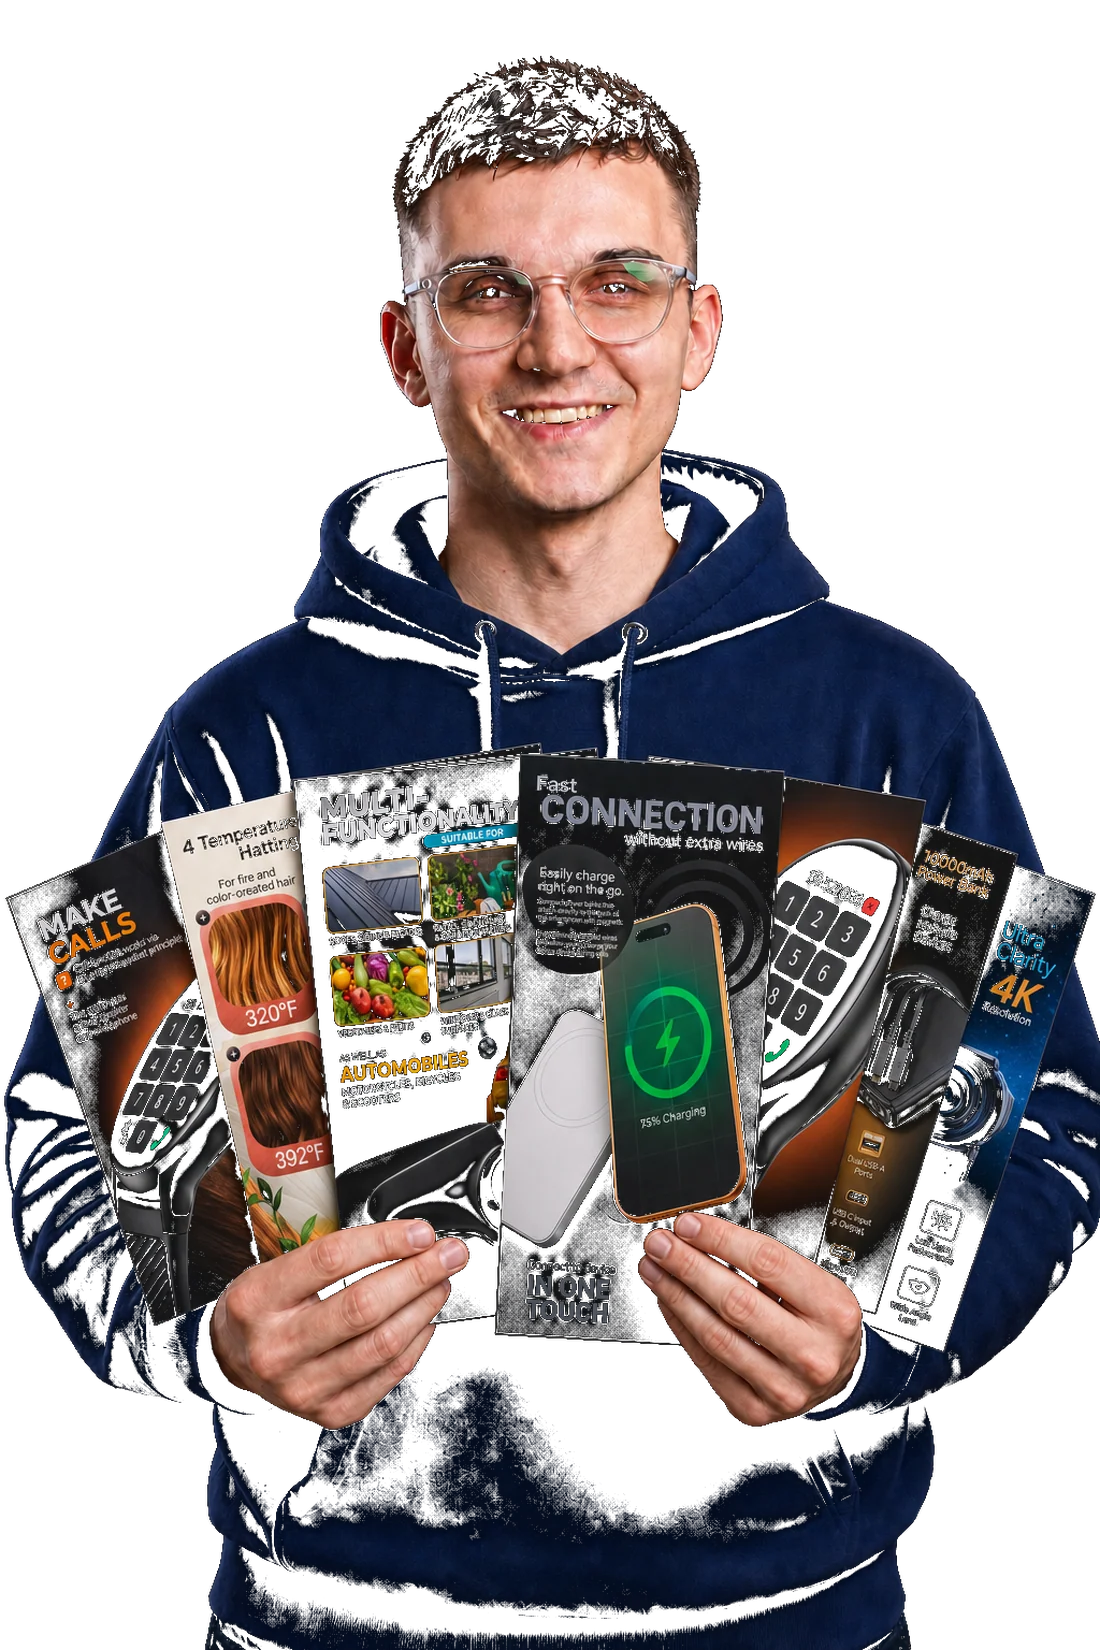
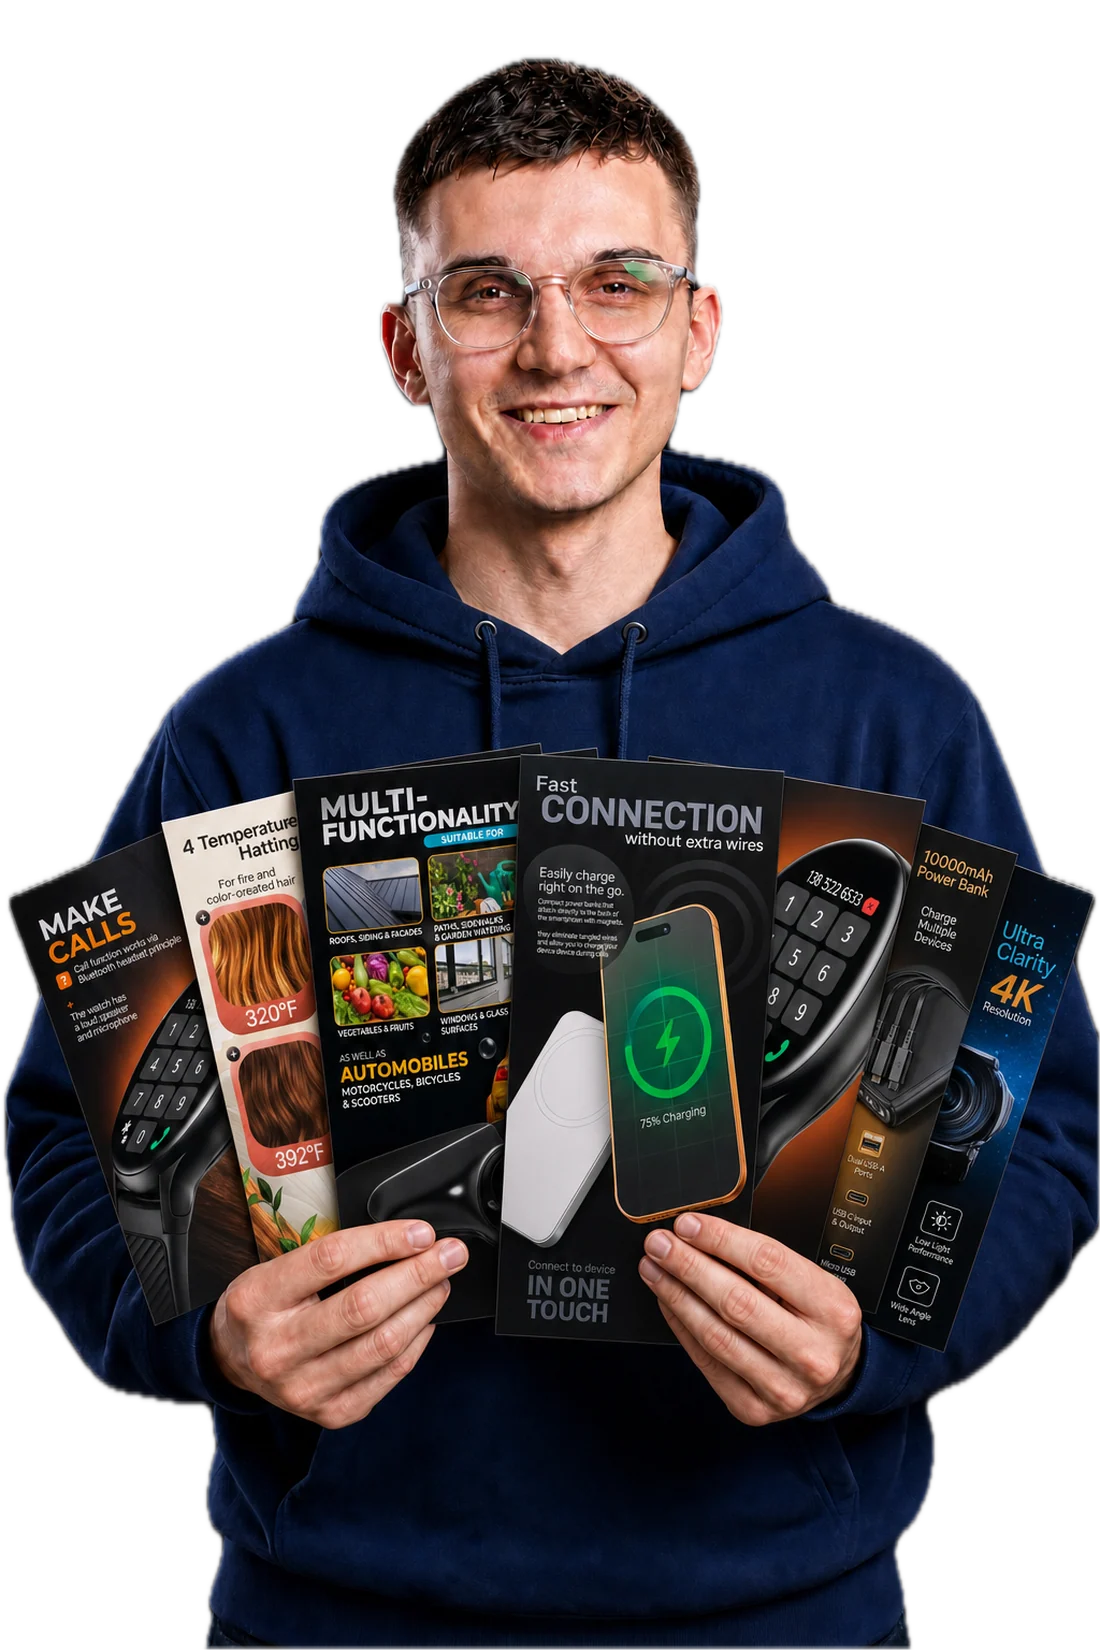
Use the corrected cutout portrait, drop the upscaled Helium screenshot
The first transparent export ate parts of the hoodie and the cards. The v2
mask keeps them. The Helium 10 panel turned out to be an exact 4x upscale of
a 337x269 preview, so it carried no real detail; that card goes back to a
drawn schematic until a full-size capture exists.

diff --git a/index.html b/index.html
@@ -475,7 +475,11 @@
 
     <div class="res">
       <div class="rcard rv">
-        <div class="viz viz-shot"><img src="assets/img/process/xray-competitors.webp" alt="Product research table showing competitor revenue, price and sales" loading="lazy" decoding="async"></div>
+        <div class="viz viz-grid">
+          <i></i><i class="on"></i><i></i><i></i>
+          <i></i><i></i><i class="on"></i><i></i>
+          <i class="on"></i><i></i><i></i><i></i>
+        </div>
         <div>
           <h4>Competitor teardown</h4>
           <p>Every listing at the top of the category: what it earns, what it charges, how many reviews it hides behind. That is where the gap shows up.</p>
